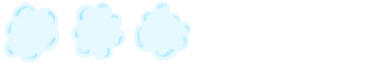
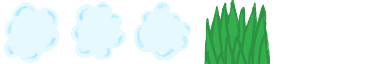
Add grass tile

Changed region(s): [[0.5244, 0.0, 0.7095, 1.0]]

diff --git a/src/game/config.ts b/src/game/config.ts
@@ -5,7 +5,7 @@ export const CAMERA_VISIBLE_TILES_ACROSS = 14;
 
 export const TILE_EMPTY = 0;
 export const TILE_SOLID = 1;
-export const TILE_GROUND = 2;
+export const TILE_GROUND = 4;
 
 export const OBJECT_NONE = 0;
 export const OBJECT_SPAWN = 1;
